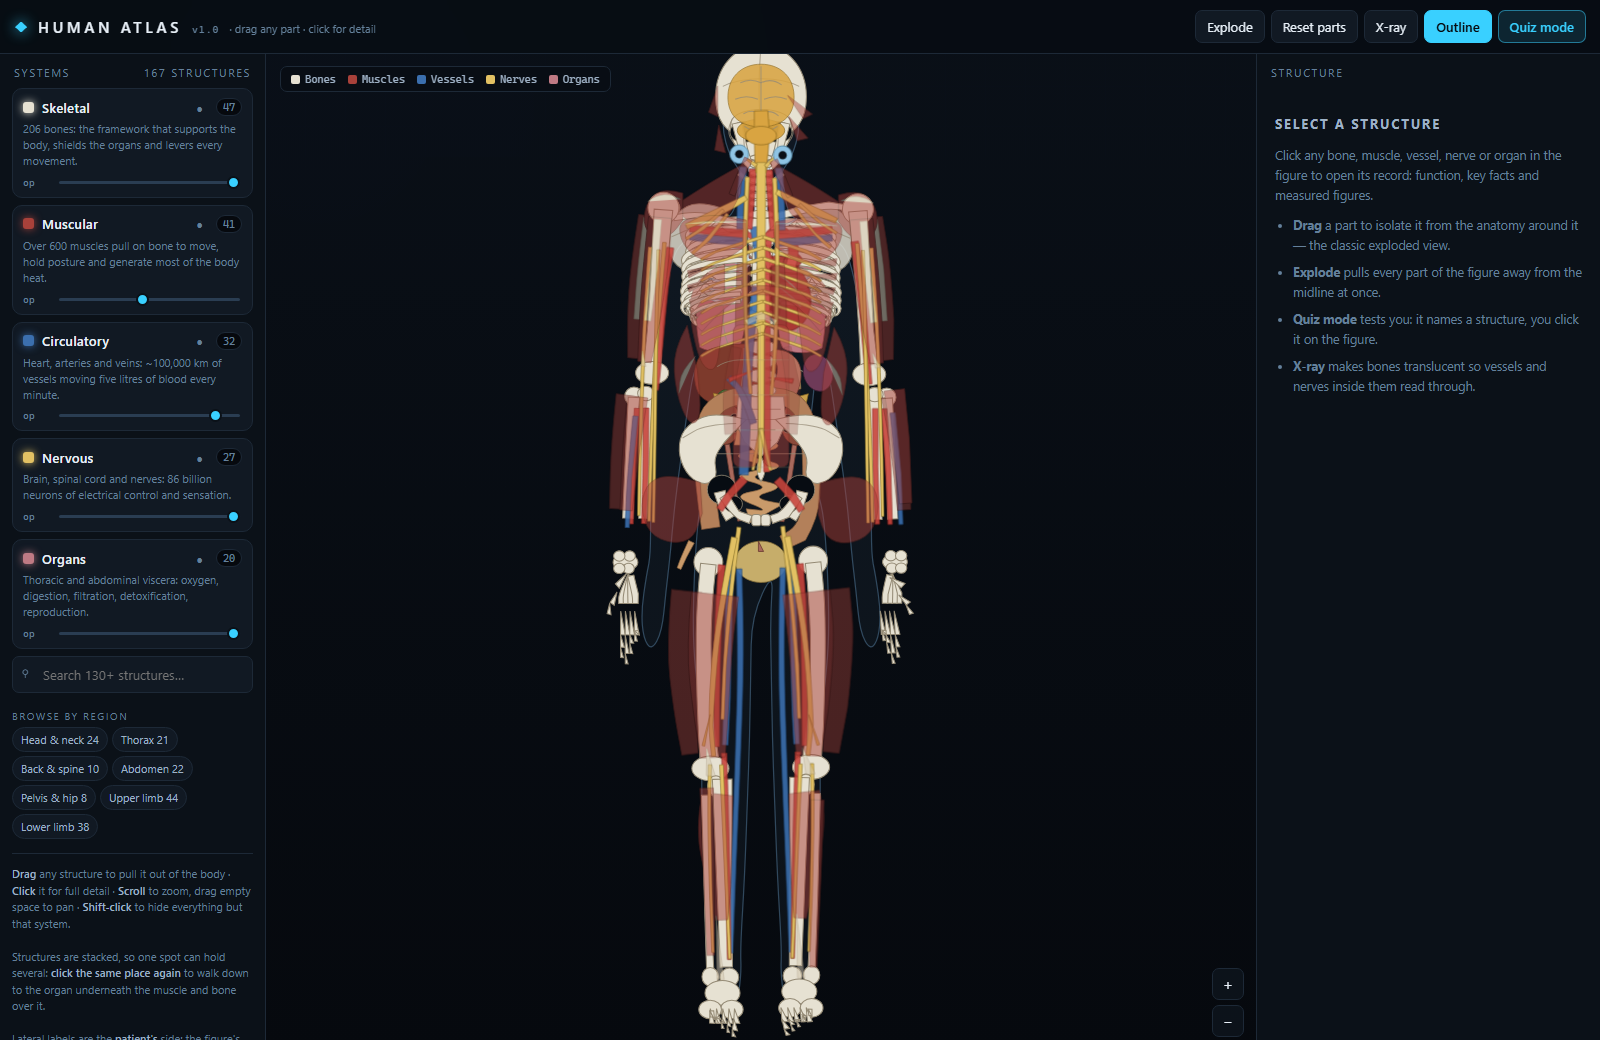
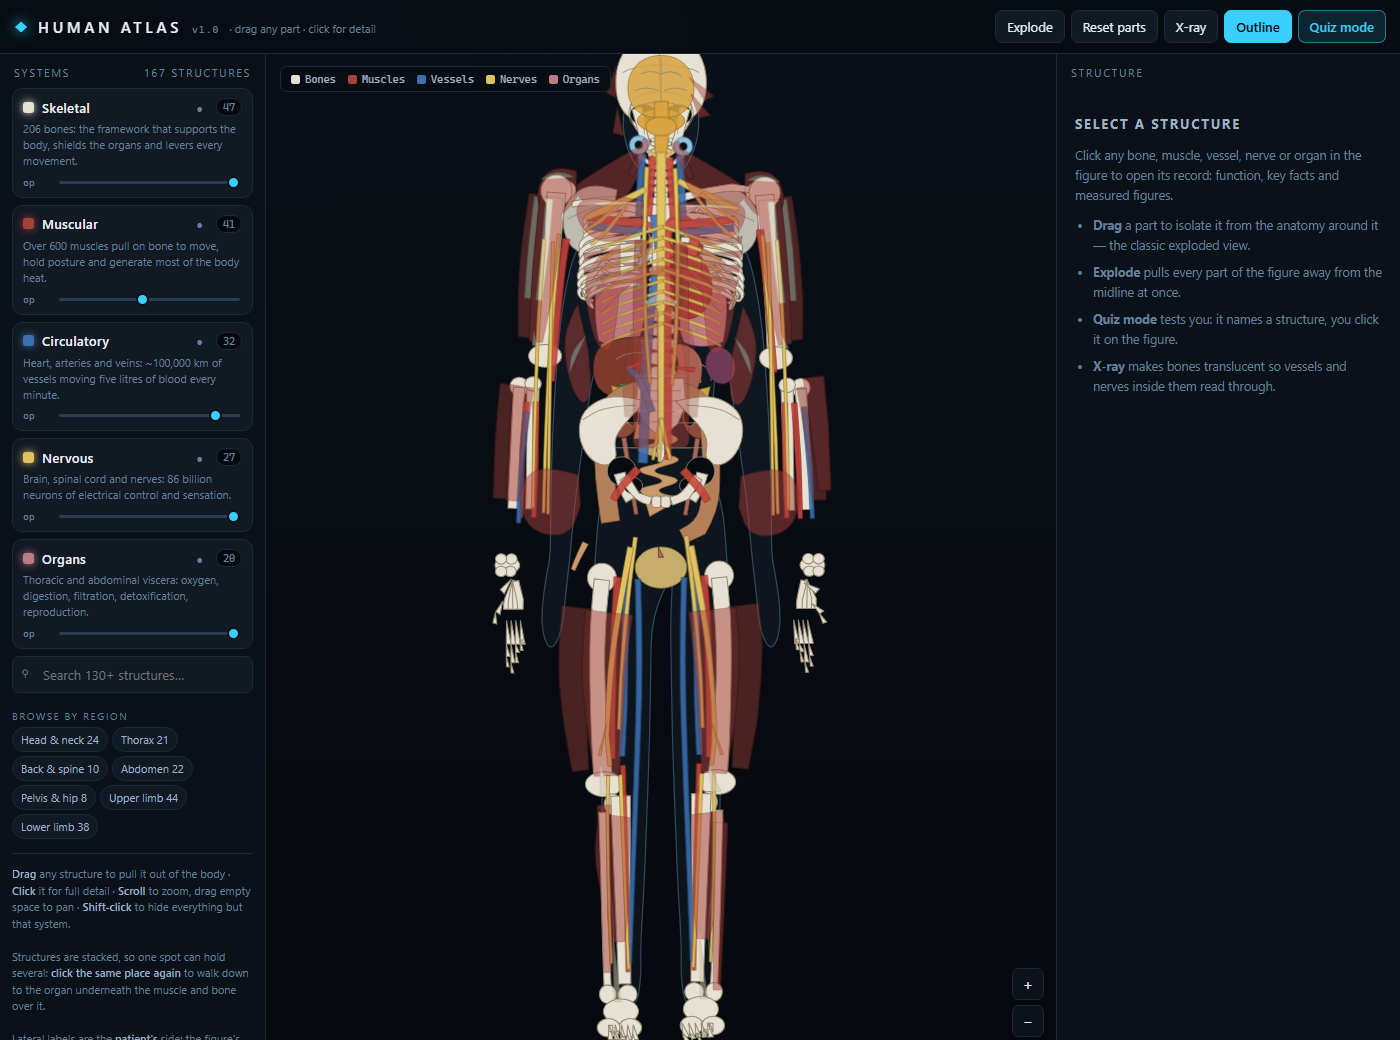
Explode unfolds the figure instead of shredding it; friendlier detail tag

diff --git a/index.html b/index.html
@@ -3080,7 +3080,7 @@ function applyQuery() {
   }
   if (params.xray) { st.xray = true; syncToggles(); renderSvg(); }
   if (params.skin === '0') { st.skin = false; syncToggles(); renderSvg(); }
-  if (params.explode) { st.off = Atlas.explodeOffsets(34); st.exploded = true; renderSvg(); renderHud(); }
+  if (params.explode) { st.off = Atlas.explodeOffsets(50); st.exploded = true; renderSvg(); renderHud(); }
   if (params.pick) { st.on[Atlas.get(params.pick).sys] = true; renderSvg(); selectPart(params.pick, { focus: !!params.focus }); }
   if (params.zoom) zoomAt(+params.zoom, { x: Atlas.VIEW.w / 2, y: Atlas.VIEW.h / 2 });
   if (params.selftest) selftest();

diff --git a/src/ui/30-harness.js b/src/ui/30-harness.js
@@ -30,7 +30,7 @@ function applyQuery() {
   }
   if (params.xray) { st.xray = true; syncToggles(); renderSvg(); }
   if (params.skin === '0') { st.skin = false; syncToggles(); renderSvg(); }
-  if (params.explode) { st.off = Atlas.explodeOffsets(34); st.exploded = true; renderSvg(); renderHud(); }
+  if (params.explode) { st.off = Atlas.explodeOffsets(50); st.exploded = true; renderSvg(); renderHud(); }
   if (params.pick) { st.on[Atlas.get(params.pick).sys] = true; renderSvg(); selectPart(params.pick, { focus: !!params.focus }); }
   if (params.zoom) zoomAt(+params.zoom, { x: Atlas.VIEW.w / 2, y: Atlas.VIEW.h / 2 });
   if (params.selftest) selftest();
